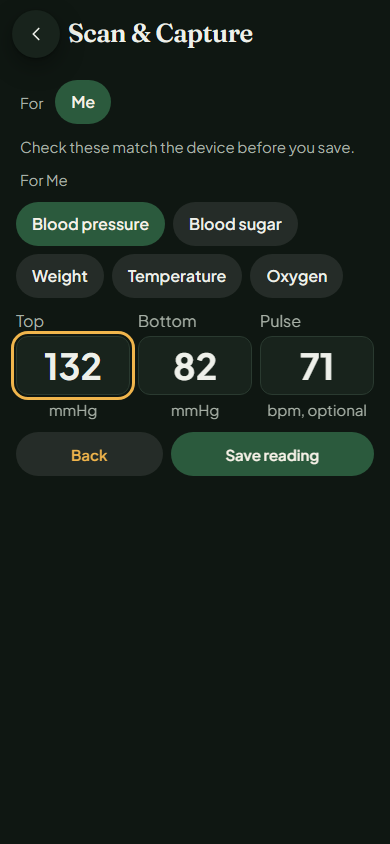
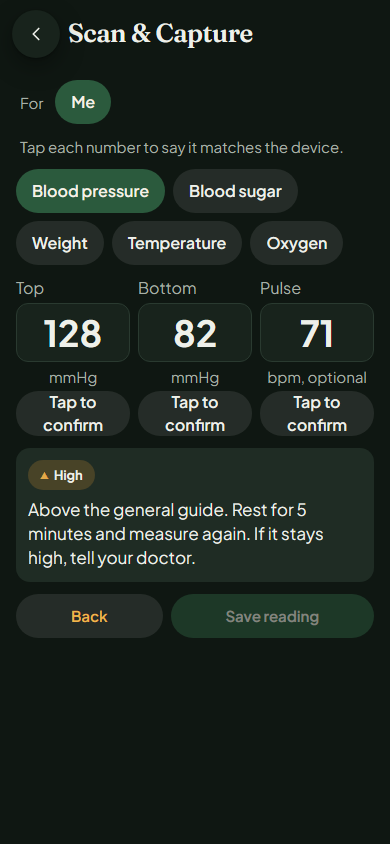
ask: F4 fix round 2: photo reads count on their own assistant_usage row (not the Ask chat's), verdict styles load on the Scan screen, hide pre-save Saved line, tap and 429 e2e, new confirm and limit shots, README

Changed region(s): [[0.0308, 0.154, 0.9538, 0.6777], [0.4308, 0.6777, 0.9538, 0.7701], [0.1846, 0.7085, 0.2769, 0.7393]]

diff --git a/e2e/scan.spec.ts b/e2e/scan.spec.ts
@@ -59,7 +59,7 @@ async function mock(page: Page, reply: { status: number; reading?: unknown } = {
     if (p.startsWith('/functions/v1/records-extract')) {
       const body = req.postDataJSON()
       s.calls.push('invoke'); s.invokes.push(body)
-      if (body?.mode === 'reading') return reply.status === 200 ? json(route, { ok: true, reading: reply.reading }) : json(route, { ok: false, error: 'read_failed' }, reply.status)
+      if (body?.mode === 'reading') return reply.status === 200 ? json(route, { ok: true, reading: reply.reading }) : json(route, { ok: false, error: reply.status === 429 ? 'rate_limited' : 'read_failed' }, reply.status)
       return json(route, { ok: true })
     }
     return json(route, {}, 404)
@@ -170,22 +170,29 @@ for (const scheme of ['light', 'dark'] as const) {
     test.use({ colorScheme: scheme })
 
     test('photo, Device reading, numbers shown to confirm, edit one, Save writes readings and no document', async ({ page }) => {
-      const s = await mock(page, { status: 200, reading: { kind: 'bp', systolic: 128, diastolic: 82, pulse: 71, value: null, unit: 'mmHg', confidence: 0.9 } })
+      const s = await mock(page, { status: 200, reading: { kind: 'bp', systolic: 128, diastolic: 82, pulse: 71, value: null, unit: 'mmHg', confidence: 0.7 } }) // under 0.9: each number must be tapped
       await page.goto('/docs-harness.html#scan')
       await page.getByTestId('scan-camera').setInputFiles(photo('bp.png'))
       await expect(page.getByRole('heading', { name: 'What is in the photo?' })).toBeVisible()
       await shot(page, `choose-${scheme}`)
       await page.getByRole('button', { name: /Device reading/ }).click()
-      await expect(page.getByTestId('reading-confirm')).toBeVisible()
-      await expect(page.getByLabel('Top')).toHaveValue('128')
-      await expect(page.getByLabel('Bottom')).toHaveValue('82')
-      await expect(page.getByLabel('Pulse')).toHaveValue('71')
+      await expect(page.getByTestId('reading-confirm')).toBeVisible({ timeout: 20_000 }) // the photo is decoded and sent first
+      await expect(page.getByLabel('Top', { exact: true })).toHaveValue('128')
+      await expect(page.getByLabel('Bottom', { exact: true })).toHaveValue('82')
+      await expect(page.getByLabel('Pulse', { exact: true })).toHaveValue('71')
       expect(s.invokes[0]).toMatchObject({ mode: 'reading', mime: 'image/jpeg' })
       expect(typeof (s.invokes[0] as { image_base64: string }).image_base64).toBe('string')
-      expect((await page.getByLabel('Top').boundingBox())!.height).toBeGreaterThanOrEqual(48)
-      await page.getByLabel('Top').fill('132') // nothing is saved until the person confirms
-      expect(await readings(page)).toHaveLength(0)
+      expect((await page.getByLabel('Top', { exact: true }).boundingBox())!.height).toBeGreaterThanOrEqual(48)
+      await expect(page.getByTestId('reading-verdict')).toHaveAttribute('data-state', 'above')
+      await expect(page.getByRole('button', { name: /^Confirm / })).toHaveCount(3)
+      await expect(page.getByRole('button', { name: 'Save reading' })).toBeDisabled()
       await shot(page, `confirm-${scheme}`)
+      await page.getByLabel('Top', { exact: true }).fill('132') // editing a number confirms it; the other two are tapped
+      await page.getByTestId('tap-diastolic').click()
+      await expect(page.getByRole('button', { name: 'Save reading' })).toBeDisabled() // pulse still waits
+      await page.getByTestId('tap-pulse').click()
+      await expect(page.getByRole('button', { name: 'Save reading' })).toBeEnabled()
+      expect(await readings(page)).toHaveLength(0) // nothing is saved until the person confirms
       await page.getByRole('button', { name: 'Save reading' }).click()
       await expect(page.getByText('Reading saved.')).toBeVisible()
       expect((await readings(page)).map((r) => [r.test, r.value, r.unit])).toEqual([['bp_systolic', 132, 'mmHg'], ['bp_diastolic', 82, 'mmHg'], ['heart_rate', 71, 'bpm']])
@@ -193,14 +200,25 @@ for (const scheme of ['light', 'dark'] as const) {
       expect(s.uploads).toHaveLength(0)
     })
 
+    test('over the daily limit (429): the limit note shows, fields are empty, nothing is saved', async ({ page }) => {
+      await mock(page, { status: 429 })
+      await page.goto('/docs-harness.html#scan')
+      await page.getByTestId('scan-camera').setInputFiles(photo('bp.png'))
+      await page.getByRole('button', { name: /Device reading/ }).click()
+      await expect(page.getByText(/Too many photo reads today/)).toBeVisible({ timeout: 20_000 })
+      await expect(page.getByLabel('Top', { exact: true })).toHaveValue('')
+      await shot(page, `limit-${scheme}`)
+      expect(await readings(page)).toHaveLength(0)
+    })
+
     test('the server could not read it: fields are empty (not 0) and the person types the numbers', async ({ page }) => {
       await mock(page, { status: 502 })
       await page.goto('/docs-harness.html#scan')
       await page.getByTestId('scan-camera').setInputFiles(photo('bp.png'))
       await page.getByRole('button', { name: /Device reading/ }).click()
-      await expect(page.getByTestId('reading-confirm')).toBeVisible()
-      await expect(page.getByLabel('Top')).toHaveValue('')
-      await expect(page.getByText(/Could not read the photo/)).toBeVisible()
+      await expect(page.getByTestId('reading-confirm')).toBeVisible({ timeout: 20_000 }) // the photo is decoded and sent first
+      await expect(page.getByLabel('Top', { exact: true })).toHaveValue('')
+      await expect(page.getByText(/Could not read the photo/)).toBeVisible({ timeout: 20_000 })
       await page.getByRole('button', { name: 'Save reading' }).click()
       await expect(page.getByRole('alert')).toContainText('Type the top and the bottom number')
       await shot(page, `empty-${scheme}`)

diff --git a/supabase/functions/records-extract/records-extract.test.ts b/supabase/functions/records-extract/records-extract.test.ts
@@ -8,7 +8,7 @@ import { buildLoadSql, uuid5 as pcUuid5 } from '../../../scripts/import/load.mjs
 import { loadCatalog, normalizeTest as pcNormalizeTest } from '../../../scripts/import/normalize.mjs'
 import {
   buildReadingRequest, buildRequest, type CatalogRow, DEFAULT_FALLBACK_MODEL, DEFAULT_MODEL, errorCode, extractDocument, HttpError, mapDraft, MAX_PAGES, MAX_READING_BASE64,
-  MAX_TOKENS, normalizeDraft, READING_DAILY_CAP, READING_UNITS, readingSlotTaken, normalizeReading, parseReadingBody, READING_MAX_TOKENS, READING_PROMPT, readDevice,
+  MAX_TOKENS, normalizeDraft, READING_DAILY_CAP, READING_UNITS, readingUsageDay, takeReadingSlot, type ReadingUsagePort, normalizeReading, parseReadingBody, READING_MAX_TOKENS, READING_PROMPT, readDevice,
   normalizeTest, orderPages, type PageRow, parseBody, type Port, PROMPT, runOne, runSweep, type Row, sendToOpenRouter, summary, TABLES, toBase64, usageCounts, uuid5, withRetry
 } from './logic.ts'
 
@@ -275,10 +275,56 @@ describe('reading mode', () => {
     expect(normalizeReading({ kind: 'bp', systolic: 120, diastolic: 80, pulse: P.pulse.max + 1, confidence: 1 }).pulse).toBeNull()
     expect(normalizeReading({ kind: 'bp', systolic: 120, diastolic: 80, pulse: P.pulse.max, confidence: 1 }).pulse).toBe(P.pulse.max)
   })
-  it('the daily slot: only an explicit allowed row passes; error shapes and empties say no', () => {
+  // a fake assistant_usage table; askTake is assistant_take (the Ask chat) on today's Manila date, as in 0005
+  const table = () => {
+    const rows = new Map<string, number>()
+    const port: ReadingUsagePort = {
+      count: async (u, d) => rows.get(`${u}|${d}`) ?? null,
+      ensure: async (u, d) => { if (!rows.has(`${u}|${d}`)) rows.set(`${u}|${d}`, 0) },
+      bump: async (u, d, e) => { if (rows.get(`${u}|${d}`) !== e) return false; rows.set(`${u}|${d}`, e + 1); return true }
+    }
+    const askTake = (u: string, now: Date, limit: number) => {
+      const d = new Date(now.getTime() + 8 * 3600_000).toISOString().slice(0, 10)
+      const n = rows.get(`${u}|${d}`) ?? 0
+      if (n >= limit) return false
+      rows.set(`${u}|${d}`, n + 1); return true
+    }
+    return { rows, port, askTake }
+  }
+  const noon = new Date('2026-10-26T04:00:00Z') // 12:00 in Manila
+  it('the photo-read day is Manila today, 100 years on (own row, never the chat row)', () => {
     expect(READING_DAILY_CAP).toBe(20)
-    expect(readingSlotTaken([{ allowed: true, used: 3 }])).toBe(true)
-    for (const bad of [[{ allowed: false, used: 20 }], [], null, undefined, 'x', [{ used: 1 }], [{ allowed: 'true' }]]) expect(readingSlotTaken(bad)).toBe(false)
+    expect(readingUsageDay(noon)).toBe('2126-10-26')
+    expect(readingUsageDay(new Date('2026-10-26T16:30:00Z'))).toBe('2126-10-27') // 00:30 next day in Manila
+    expect(readingUsageDay(new Date('2026-12-31T20:00:00Z'))).toBe('2127-01-01')
+  })
+  it('20 photo reads pass, the 21st is refused, and the Ask chat still has all 30 messages', async () => {
+    const t = table()
+    for (let i = 0; i < 20; i++) expect(await takeReadingSlot(t.port, 'u1', noon)).toBe(true)
+    expect(await takeReadingSlot(t.port, 'u1', noon)).toBe(false)
+    expect(t.rows.get('u1|2126-10-26')).toBe(20)
+    for (let i = 0; i < 30; i++) expect(t.askTake('u1', noon, 30)).toBe(true)
+    expect(t.askTake('u1', noon, 30)).toBe(false)
+  })
+  it('30 Ask chat messages do not use up the photo reads', async () => {
+    const t = table()
+    for (let i = 0; i < 30; i++) expect(t.askTake('u1', noon, 30)).toBe(true)
+    expect(await takeReadingSlot(t.port, 'u1', noon)).toBe(true)
+    expect(t.rows.get('u1|2026-10-26')).toBe(30)
+  })
+  it('another member and the next day start fresh', async () => {
+    const t = table()
+    for (let i = 0; i < 20; i++) await takeReadingSlot(t.port, 'u1', noon)
+    expect(await takeReadingSlot(t.port, 'u2', noon)).toBe(true)
+    expect(await takeReadingSlot(t.port, 'u1', new Date('2026-10-27T04:00:00Z'))).toBe(true)
+  })
+  it('parallel calls never go past the cap; a failing read or write throws instead of passing', async () => {
+    const t = table()
+    const r = await Promise.all(Array.from({ length: 30 }, () => takeReadingSlot(t.port, 'u1', noon, 20)))
+    expect(r.filter(Boolean).length).toBeLessThanOrEqual(20)
+    expect(t.rows.get('u1|2126-10-26')).toBeLessThanOrEqual(20)
+    await expect(takeReadingSlot({ ...t.port, count: async () => { throw new Error('read') } }, 'u1', noon)).rejects.toThrow()
+    await expect(takeReadingSlot({ ...t.port, ensure: async () => { throw new Error('write') } }, 'u1', noon)).rejects.toThrow()
   })
   it('parseReadingBody accepts one small photo and nothing else', () => {
     const ok = JSON.stringify({ mode: 'reading', mime: 'image/jpeg', image_base64: img.base64 })

diff --git a/supabase/functions/records-extract/index.ts b/supabase/functions/records-extract/index.ts
@@ -15,7 +15,7 @@ import { createClient, type SupabaseClient } from 'npm:@supabase/supabase-js@2.1
 import { corsHeaders, json } from '../_shared/http.ts'
 import {
   type CatalogRow, DEFAULT_FALLBACK_MODEL, DEFAULT_MODEL, type DocRow, type Env, extractDocument, type PageRow, parseBody, type Port, runSweep,
-  parseReadingBody, READING_DAILY_CAP, readDevice, readingSlotTaken, sendToOpenRouter, summary, SWEEP_LIMIT, type Usage, withRetry
+  parseReadingBody, readDevice, sendToOpenRouter, summary, SWEEP_LIMIT, takeReadingSlot, type ReadingUsagePort, type Usage, withRetry
 } from './logic.ts'
 
 declare const Deno: { env: { get(k: string): string | undefined }; serve(h: (r: Request) => Response | Promise<Response>): void }
@@ -87,6 +87,25 @@ function makePort(sb: SupabaseClient, key: string): Port {
   }
 }
 
+function usagePort(sb: SupabaseClient): ReadingUsagePort {
+  return {
+    async count(userId, day) {
+      const { data, error } = await sb.from('assistant_usage').select('count').eq('user_id', userId).eq('day', day).maybeSingle()
+      if (error) throw new Error('read')
+      return data ? Number(data.count) : null
+    },
+    async ensure(userId, day) {
+      const { error } = await sb.from('assistant_usage').upsert({ user_id: userId, day, count: 0 }, { onConflict: 'user_id,day', ignoreDuplicates: true })
+      if (error) throw new Error('write')
+    },
+    async bump(userId, day, expected) {
+      const { data, error } = await sb.from('assistant_usage').update({ count: expected + 1 }).eq('user_id', userId).eq('day', day).eq('count', expected).select('count')
+      if (error) throw new Error('write')
+      return (data?.length ?? 0) === 1
+    }
+  }
+}
+
 Deno.serve(async (req) => {
   const cors = corsHeaders(Deno.env.get('ALLOWED_ORIGIN'), req.headers.get('origin'))
   if (req.method === 'OPTIONS') return new Response(null, { status: 204, headers: cors })
@@ -104,10 +123,10 @@ Deno.serve(async (req) => {
       const asker = createClient(env('SUPABASE_URL'), env('SUPABASE_ANON_KEY'), { ...opts, global: { headers: { Authorization: req.headers.get('authorization') ?? '' } } })
       const { data: who } = await asker.auth.getUser()
       if (!who.user) return json({ ok: false, error: 'unauthorized' }, 401, cors)
-      // a daily slot per member, taken before the model is called (assistant_take has no key column yet: the count is shared with Ask)
-      const { data: slot, error: slotErr } = await asker.rpc('assistant_take', { p_limit: READING_DAILY_CAP })
-      if (slotErr) return json({ ok: false, error: 'server_error' }, 500, cors)
-      if (!readingSlotTaken(slot)) return json({ ok: false, error: 'rate_limited' }, 429, cors)
+      // a daily slot per member, taken before the model is called; own counter (not the Ask chat's), see readingUsageDay
+      let taken: boolean
+      try { taken = await takeReadingSlot(usagePort(createClient(env('SUPABASE_URL'), env('SUPABASE_SERVICE_ROLE_KEY'), opts)), who.user.id, new Date()) } catch { return json({ ok: false, error: 'server_error' }, 500, cors) }
+      if (!taken) return json({ ok: false, error: 'rate_limited' }, 429, cors)
       const used: { u: Usage | null } = { u: null }
       try {
         const result = await readDevice((body) => withRetry(() => sendToOpenRouter(fetch, body, key, (u) => { used.u = u }), { tries: 2, baseMs: 1000 }), image, cfg)

diff --git a/supabase/functions/records-extract/logic.ts b/supabase/functions/records-extract/logic.ts
@@ -455,10 +455,33 @@ export function normalizeReading(p: unknown): ReadingResult {
 }
 
 export const READING_DAILY_CAP = 20
-/** The assistant_take reply (one row {allowed, used}) -> may this member read a photo today? Anything unclear says no. */
-export function readingSlotTaken(data: unknown): boolean {
-  const row = (Array.isArray(data) ? data[0] : data) as { allowed?: unknown } | null | undefined
-  return row?.allowed === true
+/**
+ * The photo-read counter lives in assistant_usage but on its own row: the Ask chat (assistant_take) counts on the row for today's Manila date,
+ * this counts on the same date 100 years on, so 20 photo reads never use up Jack's chat messages and the reverse. No new SQL (assistant_take has no key column).
+ * shortcut: the row sits in a made-up far-future day; when a key column is added to assistant_usage, move it there.
+ */
+export function readingUsageDay(now: Date): string {
+  const manila = new Date(now.getTime() + 8 * 3600_000).toISOString().slice(0, 10)
+  return `${Number(manila.slice(0, 4)) + 100}${manila.slice(4)}`
+}
+export interface ReadingUsagePort {
+  /** Today's count, or null when there is no row yet. Throws when the read fails. */
+  count(userId: string, day: string): Promise<number | null>
+  /** Create the row at 0 if missing. */
+  ensure(userId: string, day: string): Promise<void>
+  /** count = expected + 1 only while count is still expected (compare and set); true when this call won. */
+  bump(userId: string, day: string, expected: number): Promise<boolean>
+}
+/** Take one photo-read slot for today. Never goes past the cap even under parallel calls; a failed read or write throws (the caller says server_error). */
+export async function takeReadingSlot(port: ReadingUsagePort, userId: string, now: Date, cap = READING_DAILY_CAP): Promise<boolean> {
+  const day = readingUsageDay(now)
+  await port.ensure(userId, day)
+  for (let i = 0; i < 5; i++) {
+    const n = (await port.count(userId, day)) ?? 0
+    if (n >= cap) return false
+    if (await port.bump(userId, day, n)) return true
+  }
+  return false // five lost races in a row: say no rather than go past the cap
 }
 
 /** Request body {mode:'reading', mime, image_base64} -> the image, or null for anything else (wrong mode, not an image, too big). */

diff --git a/src/features/scan/ReadingConfirm.tsx b/src/features/scan/ReadingConfirm.tsx
@@ -1,6 +1,8 @@
 // Scan & Capture, device reading: the numbers read off the photo, shown big. The person confirms or edits them BEFORE anything is saved.
 // R2 hazard: a number the model was not sure of (confidence under 0.9, or none) must be tapped (or edited) before Save works.
 import { useRef, useState } from 'react'
+import '../health/health.css' // .hv-state (the verdict pill); the Scan screen can open before any Health screen has loaded it
+import '../health/m7a.css' // .ar-prev (the verdict line box)
 import { deviceSpec, previewReading } from '../health/readingPreview'
 import { logReading } from '../log/store'
 import { buildReadings, KIND_LABEL, KIND_ORDER, toTyped, UNIT_WORD, UNITS, type ReadingDraft, type ReadingKind } from './reading'
@@ -76,7 +78,7 @@ export default function ReadingConfirm({ draft, failed, limited = false, personI
           {confirmBtn('value', KIND_LABEL[kind].toLowerCase())}
         </div>
       )}
-      {pv && pv.state !== 'invalid' && (
+      {pv && pv.state !== 'invalid' && pv.state !== 'none' && ( // 'none' lines say "Saved..." and nothing is saved yet
         <div className="ar-prev" data-testid="reading-verdict" data-state={pv.state} role="status">
           {pv.word && <span className={`hv-state ${pv.state}`}>{pv.word}</span>}
           <span>{pv.line}</span>

diff --git a/src/features/scan/ReadingConfirm.test.tsx b/src/features/scan/ReadingConfirm.test.tsx
@@ -92,6 +92,10 @@ describe('ReadingConfirm', () => {
     await waitFor(() => expect(onSaved).toHaveBeenCalled())
     expect((await hdb.readings.toArray()).map((r) => [r.test, r.value, r.unit])).toEqual([['glucose', 100.9, 'mg/dL']])
   })
+  it('a device with no range to compare (temperature) shows no "Saved" line before anything is saved', () => {
+    show({ ...EMPTY_DRAFT, kind: 'temp', value: 37, unit: 'C', confidence: 0.9 })
+    expect(screen.queryByTestId('reading-verdict')).toBeNull()
+  })
   it('changing the device kind switches the fields', () => {
     show(bp)
     fireEvent.click(screen.getByRole('button', { name: 'Weight' }))

diff --git a/supabase/functions/records-extract/README.md b/supabase/functions/records-extract/README.md
@@ -86,4 +86,4 @@ Undo: `select cron.unschedule('records-extract');`, `supabase functions delete r
 
 ## Device reading mode (Scan & Capture)
 
-The app can send one photo of a BP monitor, glucose meter, scale, thermometer or oximeter: body `{mode:"reading", mime:"image/jpeg|png|webp", image_base64}` (a request over 2 KB is routed here), the member JWT in Authorization. Nothing is stored. Reply `{ok:true, reading:{kind,systolic,diastolic,pulse,value,unit,confidence}}`; any number that is unreadable, out of range, in an unknown unit or read with confidence under 0.5 is null. Same OpenRouter settings as a paper plus `max_tokens: 200` and reasoning off. The log line holds no kind and no values. No new secret, no deploy step beyond redeploying the function.
+The app can send one photo of a BP monitor, glucose meter, scale, thermometer or oximeter: body `{mode:"reading", mime:"image/jpeg|png|webp", image_base64}` (a request over 2 KB is routed here), the member JWT in Authorization. Nothing is stored. Reply `{ok:true, reading:{kind,systolic,diastolic,pulse,value,unit,confidence}}`; any number that is unreadable, out of range (the same bounds as `src/features/health/plausible.ts`), in an unknown unit, or read with confidence under 0.5 or none is null. Same OpenRouter settings as a paper plus `max_tokens: 200` and reasoning off. A member gets 20 photo reads a day (Manila date): over that the reply is `429 {error:"rate_limited"}`, a failed counter read or write is `500 {error:"server_error"}`, an unreadable photo is `502 {error:"read_failed"}`. The counter is its own `assistant_usage` row on the day 100 years after today (`readingUsageDay`), written with the service role, so photo reads and the Ask chat's 30 messages never use each other up; no new SQL. The log line holds `in_tokens` and `out_tokens` only: no kind and no values. No new secret, no deploy step beyond redeploying the function.
